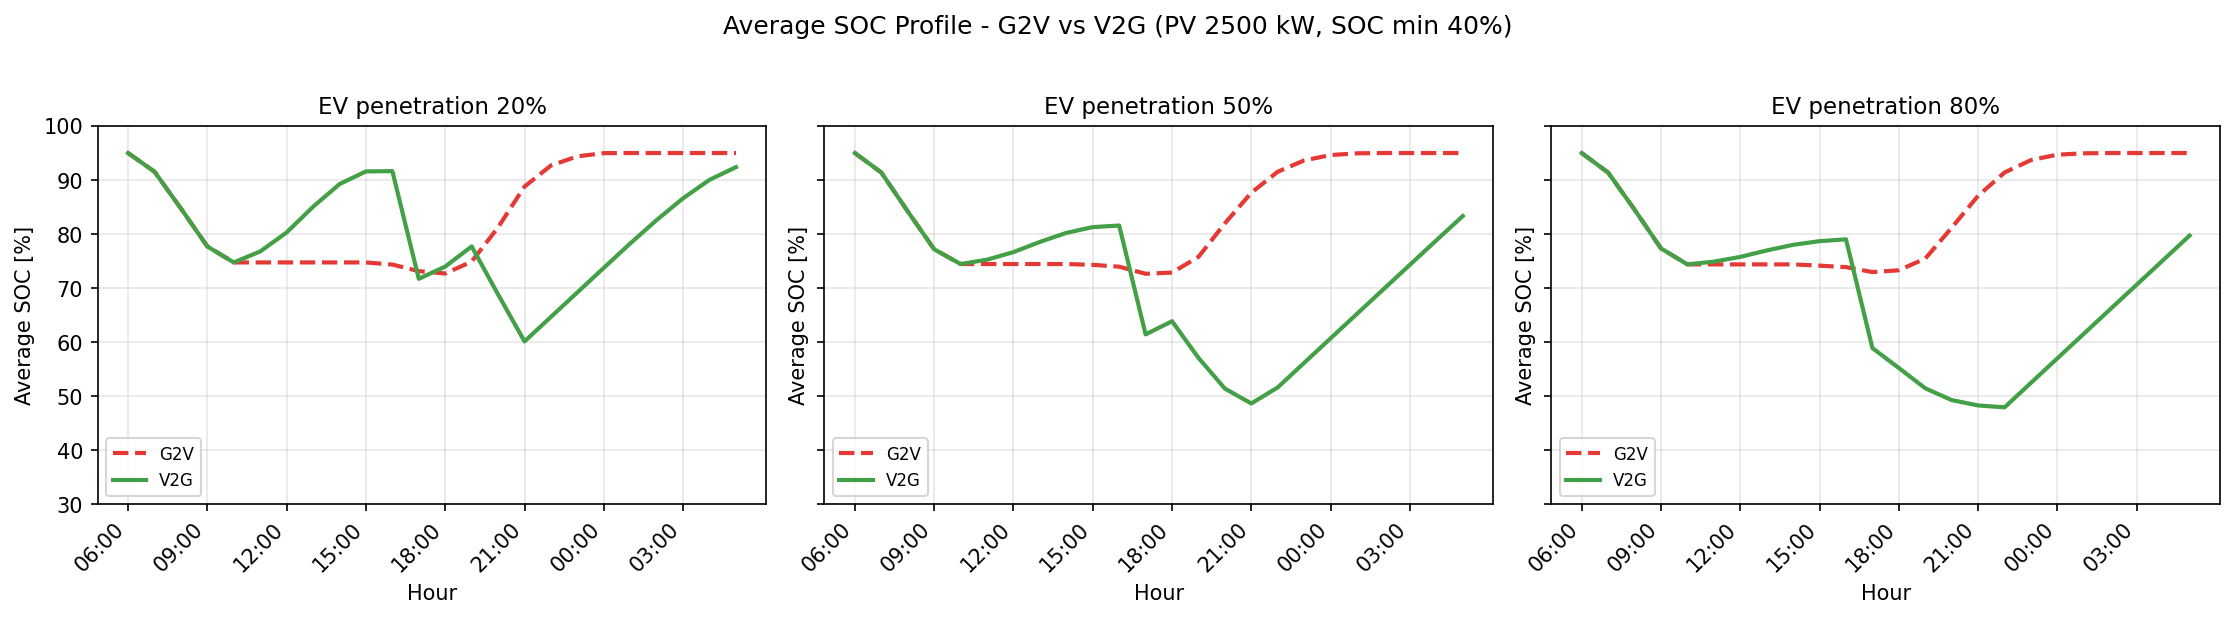
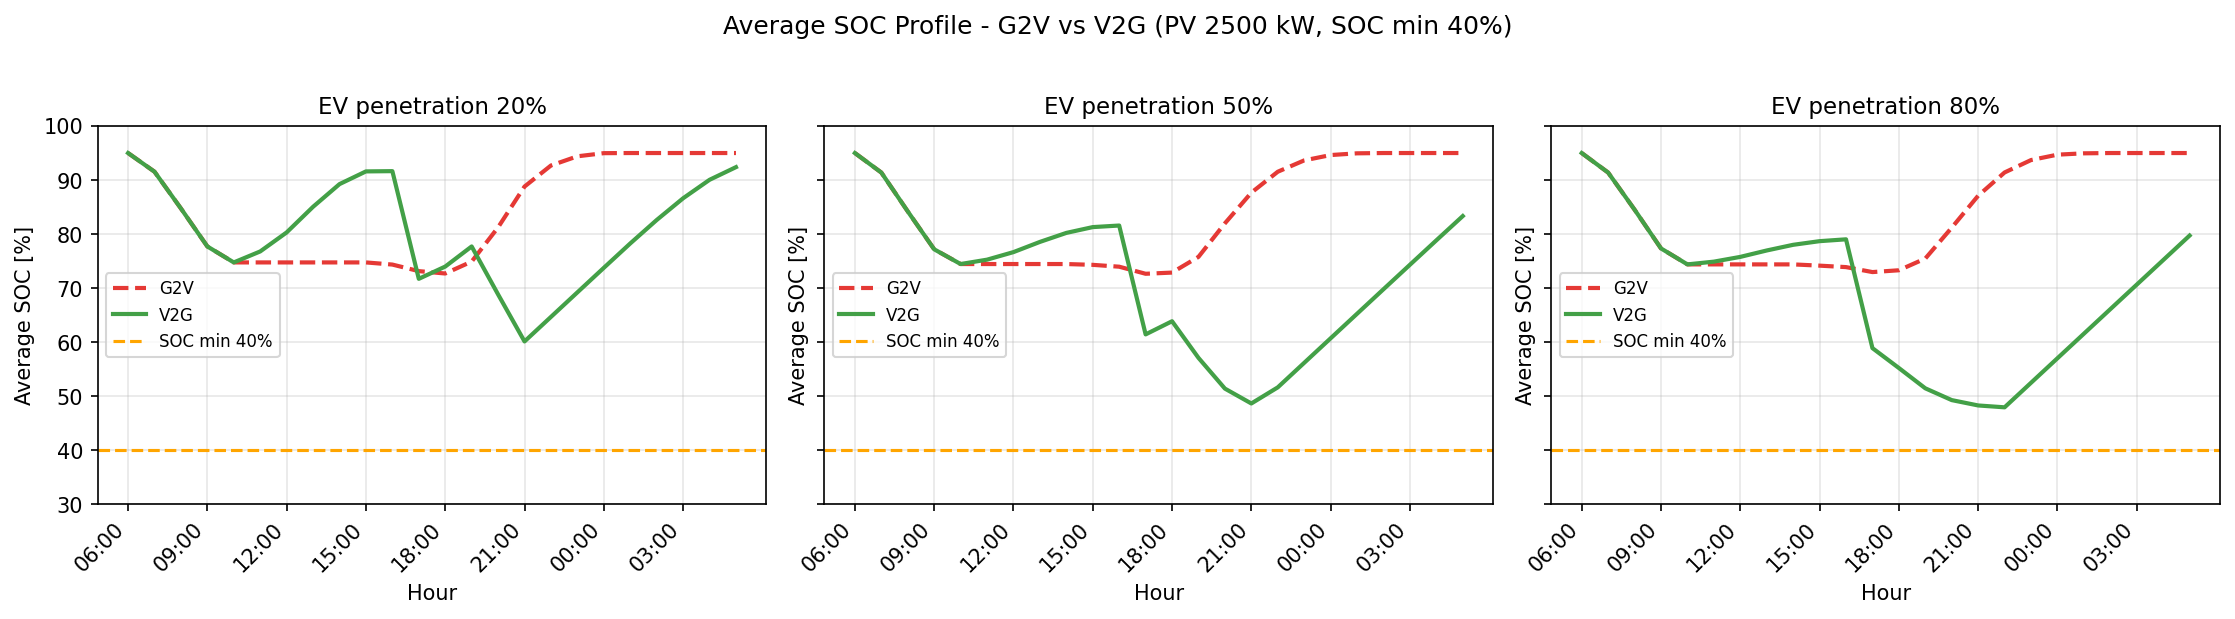
Final tweaks

diff --git a/plots.py b/plots.py
@@ -426,6 +426,7 @@ def plot_soc_profile(results: list, sim_start_h: int = 6):
         ax.set_xticklabels(xlabels[::3], rotation=45, ha="right")
         ax.set_xlabel("Hour")
         ax.set_ylabel("Average SOC [%]")
+        ax.axhline(40, color="orange", linestyle="--", linewidth=1.5, label="SOC min 40%")
         ax.set_ylim(30, 100)
         ax.legend(fontsize=8)
 
